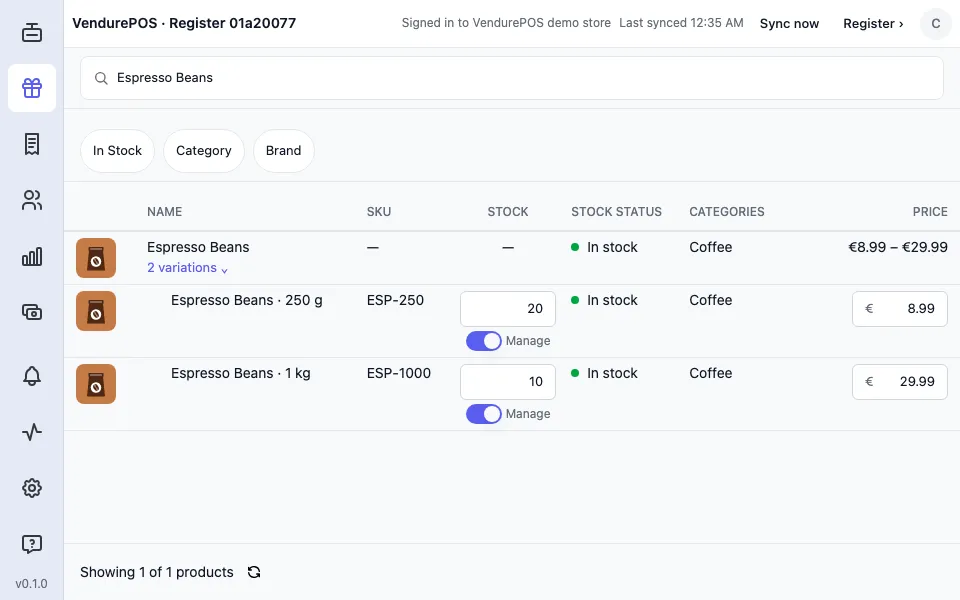
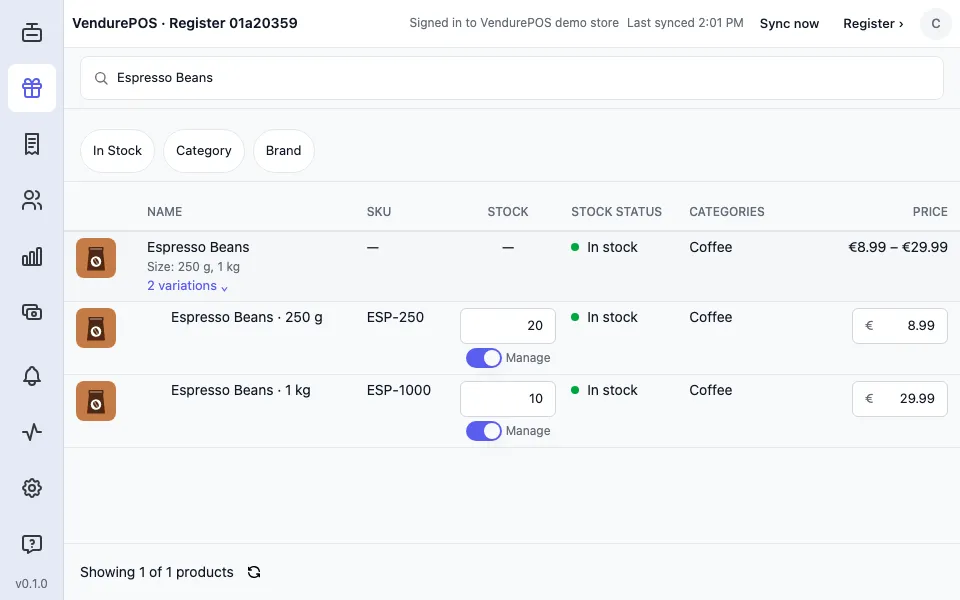
feat(pos): a grouped Products row shows its option summary under the name, as v2's products table (10.2m)
Each Vendure option group gets one muted line ("Size: S, M, L") between the
name and "N variations", kept to the values a live variant carries, in the
group's own order, from all the product's variants whatever the search or
filters leave. Plain and child rows show none. 08j retaken.

diff --git a/apps/pos/lib/product-rows.test.ts b/apps/pos/lib/product-rows.test.ts
@@ -16,7 +16,7 @@ describe('productRows', () => {
     expect(rows.map(row => row.id)).toEqual(['11', '21', '22', '31']);
     expect(rows[0]).toEqual({ id: '11', productId: '1', productName: 'Tally Fixture Mug', name: 'Tally Fixture Mug', sku: 'TALLY-MUG', price: expect.stringContaining('8.00'), stock: '50',
       imageUrl: null, stockStatus: 'in_stock', categories: '—', categoryIds: [], facetValueIds: [],
-      priceText: '8.00', stockText: '50', managed: true, stockTarget: null });
+      priceText: '8.00', stockText: '50', managed: true, stockTarget: null, optionSummary: [] });
     expect([rows[3].managed, rows[3].stockText]).toEqual([false, '']);
     expect(rows[1].name).toBe('Espresso Beans · 250 g');
     expect(rows[1].stock).toBe('20');
@@ -90,6 +90,40 @@ describe('productRows', () => {
   });
 });
 
+describe('productRows option summary (10.2m)', () => {
+  const group = (id: string, name: string, values: string[]) =>
+    ({ id, code: name.toLowerCase(), name, options: values.map(value => ({ id: `${id}-${value}`, code: value.toLowerCase(), name: value })) });
+  const options = (...pairs: [string, string][]) => pairs.map(([groupId, name]) => ({ id: `${groupId}-${name}`, code: name.toLowerCase(), name, groupId }));
+  const tee = { id: '4', name: 'Tally Tee', optionGroups: [group('size', 'Size', ['S', 'M', 'L']), group('colour', 'Colour', ['Black', 'White'])],
+    variants: [
+      { ...variant('41', 'TEE-S-BLK', 1999, 'Tally Tee S Black'), options: options(['size', 'S'], ['colour', 'Black']) },
+      { ...variant('42', 'TEE-M-BLK', 1999, 'Tally Tee M Black'), options: options(['size', 'M'], ['colour', 'Black']) },
+      { ...variant('43', 'TEE-S-WHT', 1999, 'Tally Tee S White'), options: options(['size', 'S'], ['colour', 'White']) },
+    ] };
+  const summary = [{ name: 'Size', values: ['S', 'M'] }, { name: 'Colour', values: ['Black', 'White'] }];
+
+  it("gives every row its product's groups in order, each kept to the values a live variant carries", () => {
+    const rows = productRows([tee], '', vendureProductTraits, 'EUR', 0);
+    expect(rows.map(row => row.optionSummary)).toEqual([summary, summary, summary]);
+  });
+
+  it('drops a group whose values no live variant carries', () => {
+    const withFit = { ...tee, optionGroups: [...tee.optionGroups, group('fit', 'Fit', ['Slim'])],
+      variants: [...tee.variants, { ...variant('44', 'TEE-SLIM', 1999, 'Tally Tee Slim'), enabled: false, options: options(['size', 'L'], ['fit', 'Slim']) }] };
+    expect(productRows([withFit], '', vendureProductTraits, 'EUR', 0)[0].optionSummary).toEqual(summary);
+  });
+
+  it('is empty for traits without getVariantOptions', () => {
+    const { getVariantOptions: _, ...traits } = vendureProductTraits;
+    expect(productRows([tee], '', traits, 'EUR', 0).map(row => row.optionSummary)).toEqual([[], [], []]);
+  });
+
+  it("keeps the whole product's summary on a row a search leaves alone", () => {
+    const rows = productRows([tee], 'TEE-M-BLK', vendureProductTraits, 'EUR', 0);
+    expect(rows.map(row => ({ id: row.id, optionSummary: row.optionSummary }))).toEqual([{ id: '42', optionSummary: summary }]);
+  });
+});
+
 describe('filterProductRows', () => {
   const base = productRows(products, '', vendureProductTraits, 'EUR', 0);
   const rows: ProductRow[] = [
@@ -127,7 +161,7 @@ describe('Products panel header sorting', () => {
   const row = (values: Partial<ProductRow> = {}): ProductRow => ({
     id: '1', productId: '1', productName: 'Mug', name: 'Mug', sku: '—', price: '—', stock: '—', imageUrl: null,
     stockStatus: 'unknown', categories: '—', categoryIds: [], facetValueIds: [], priceText: '', stockText: '',
-    managed: false, stockTarget: null, ...values,
+    managed: false, stockTarget: null, optionSummary: [], ...values,
   });
 
   it('extracts header values, leaving missing and unsortable values undefined', () => {
@@ -166,7 +200,7 @@ describe('groupProductRows', () => {
   const row = (id: string, productId: string, values: Partial<ProductRow> = {}): ProductRow => ({
     id, productId, productName: `Product ${productId}`, name: `Product ${productId} · ${id}`, sku: `SKU-${id}`, price: '—', stock: '5', imageUrl: null,
     stockStatus: 'in_stock', categories: 'Coffee', categoryIds: ['c'], facetValueIds: [], priceText: '', stockText: '5',
-    managed: true, stockTarget: null, ...values,
+    managed: true, stockTarget: null, optionSummary: [], ...values,
   });
   const ids = (rows: { id: string }[]) => rows.map(r => r.id);
 

diff --git a/apps/pos/lib/product-rows.ts b/apps/pos/lib/product-rows.ts
@@ -5,7 +5,17 @@ import { stockTarget, type StockTarget, type VendureVariantStock } from './produ
 /** One variant's row in the Products panel (CHECKLIST 10.2), with display and edit fields. */
 export interface ProductRow { id: string; productId: string; productName: string; name: string; sku: string; price: string; stock: string;
   imageUrl: string | null; stockStatus: StockStatus; categories: string; categoryIds: string[]; facetValueIds: string[];
-  priceText: string; stockText: string; managed: boolean; stockTarget: StockTarget | null }
+  priceText: string; stockText: string; managed: boolean; stockTarget: StockTarget | null; optionSummary: OptionSummary }
+/** v2's lines under a variable product's name (CHECKLIST 10.2m), e.g. "Size: S, M": each option group with the values its live variants carry. */
+export type OptionSummary = { name: string; values: string[] }[];
+
+/** Each option group in its own value order, kept to the values at least one live variant carries; a group left empty is dropped. */
+function optionSummary<Doc>(product: Doc, traits: ProductTraits<Doc>): OptionSummary {
+  const variants = traits.getVariants?.(product) ?? [];
+  return (traits.getVariantOptions?.(product) ?? [])
+    .map(group => ({ name: group.name, values: group.values.filter(value => variants.some(variant => variant.options?.[group.name] === value)) }))
+    .filter(group => group.values.length > 0);
+}
 /** The Products panel's header sort value for a row (v2's sortable headers): Name, SKU, Stock and Price; a missing value sorts last. */
 export function productRowSortValue(row: ProductRow, field: string): ProductSortValue {
   if (field === 'name') return row.name;
@@ -27,7 +37,10 @@ export function productRows<Doc>(products: Doc[], term: string, traits: ProductT
   const entries = catalogueEntries(searchProducts(products, term, traits), traits, { currency });
   const code = term.trim().toLowerCase();
   const exact = code ? entries.filter(({ variant }) => variant.sku?.toLowerCase() === code || variant.barcode?.toLowerCase() === code) : [];
+  // Once per product, from all its live variants (not only those the search or filters leave), as v2.
+  const summaries = new Map<Doc, OptionSummary>();
   return (exact.length ? exact : entries).map(({ product, variant }) => {
+    if (!summaries.has(product)) summaries.set(product, optionSummary(product, traits));
     const name = traits.getName(product);
     const option = variant.title?.startsWith(name) ? variant.title.slice(name.length).trim() : variant.title ?? '';
     const current = resolvePrice(variant.prices, currency)?.current;
@@ -42,6 +55,7 @@ export function productRows<Doc>(products: Doc[], term: string, traits: ProductT
       priceText: current ? moneyToMajor(current).toFixed(minorUnitDigits(current.currency)) : '',
       stockText: variant.stock.quantity == null ? '' : String(variant.stock.quantity), managed: variant.stock.quantity != null,
       stockTarget: stockTarget((product as { variants?: ({ id: string | number } & VendureVariantStock)[] }).variants?.find(v => String(v.id) === variant.id), outOfStockThreshold),
+      optionSummary: summaries.get(product)!,
     };
   });
 }

diff --git a/apps/pos/e2e/demo.spec.ts b/apps/pos/e2e/demo.spec.ts
@@ -1186,6 +1186,28 @@ test("the Products panel groups a multi-variant product under one 'N variations'
   await expect(panel.getByTestId('products-count')).toHaveText(`Showing ${Math.min(25, CATALOGUE.length)} of ${CATALOGUE.length} products`);
 });
 
+test("the Products panel shows a grouped product's option summary under its name, as v2's products table", async ({ page }) => {
+  await page.goto('/demo');
+  await page.getByTestId('demo-enter').click();
+  await expectSignedIn(page);
+  await openRegister(page);
+  await page.getByTestId('products-open').click();
+  const panel = page.getByTestId('products-panel');
+  // lib/demo/store.ts: a product's id is its CATALOGUE index + 1. One line per option group, in the group order.
+  const lines = (name: string) => panel.getByTestId(`product-options-${CATALOGUE.findIndex(p => p.name === name) + 1}`).locator(':scope > *');
+  await page.getByTestId('products-search').fill('Tally T-Shirt');
+  await expect(lines('Tally T-Shirt')).toHaveText(['Size: S, M, L', 'Colour: Black, White']);
+  await page.getByTestId('products-search').fill('Espresso Beans');
+  await expect(lines('Espresso Beans')).toHaveText(['Size: 250 g, 1 kg']);
+  // A plain row has no summary: a single-variant product, or a T-shirt variant an exact SKU search leaves alone (it still carries the product's summary).
+  for (const term of ['TALLY-MUG', 'TEE-S-BLK']) {
+    await page.getByTestId('products-search').fill(term);
+    await expect(panel.locator('[data-testid^="product-row-"]')).toHaveCount(1);
+    await expect(panel.locator('[data-testid^="product-row-group-"]')).toHaveCount(0);
+    await expect(panel.locator('[data-testid^="product-options-"]')).toHaveCount(0);
+  }
+});
+
 test("Store health shows Ready to sell, nothing waiting, the products on this device and the store's totals, and a scan closes it and adds", async ({ page }) => {
   await page.goto('/demo');
   await page.getByTestId('demo-enter').click();

diff --git a/apps/pos/lib/products-panel.tsx b/apps/pos/lib/products-panel.tsx
@@ -64,6 +64,10 @@ export function ProductsPanel({ products, traits, currency, session }: { product
         resizeMode="cover" className="h-10 w-10 rounded" /> : <View testID={`product-image-${row.id}`} className="h-10 w-10 rounded bg-muted" /> },
     { id: 'name', header: 'Name', flex: 2.5, sortValue: row => productRowSortValue(row, 'name'), render: row => row.group ? <VStack className="items-start gap-0.5">
       <Text>{row.name}</Text>
+      {/* v2's per-attribute lines (10.2m); v2's values are filter links, ours are plain text since they do nothing. */}
+      {row.optionSummary.length ? <VStack testID={`product-options-${row.group.productId}`}>
+        {row.optionSummary.map(option => <Text key={option.name} className="text-xs text-muted-foreground">{`${option.name}: ${option.values.join(', ')}`}</Text>)}
+      </VStack> : null}
       <Pressable testID={`product-variations-${row.group.productId}`} accessibilityRole="button" aria-expanded={row.group.open}
         accessibilityLabel={`Show variations of ${row.name}`} onPress={() => toggle(row.group!.productId)}>
         <Text className="text-sm text-primary">{`${row.group.count} variations ${row.group.open ? '⌄' : '›'}`}</Text>

diff --git a/docs/v2-parity/CHECKLIST.md b/docs/v2-parity/CHECKLIST.md
@@ -227,7 +227,7 @@ This file is the screen-by-screen, flow-by-flow list behind that goal. `AUDIT.md
 | ![](demo-pairs/13d-store-health-wcpos.webp) | ![](demo-pairs/13d-store-health-vendurepos.webp) |
 
 - [ ] **10.1 Customers screen:** list, search, edit. List and search done (specs B15a, B15b, B15b2): a Customers door between Orders and Reports opens the store's customers from Vendure's `customers` list, by surname, in v2's table (avatar, first and last name, email, default billing address, date created; a stacked row on a phone), 25 at a time with Show more and "Showing N of M customers", searched by name, email or phone. The walk-in customer is left out. A scan closes the panel and adds. Demo e2e "the Customers panel lists the store's customers by surname, searches them, and a scan closes it and adds". The door shows only to a role that can read customers (spec B15d, #246), and the billing address is two lines, as v2 (spec B15e, #247). Add and edit done (spec 10.1c, #356): an Add customer button and an Edit button on each row open v2's right-hand "Edit <name>" sheet with first and last name, email and phone. A save goes straight to Vendure (`createCustomer`, or `updateCustomer` with only the changed fields) and the list re-reads from the store, so a refusal such as a taken email shows the store's reason and leaves the row as the store has it. Offline, Save is blocked rather than queued. Add shows only to a role with Create customer and Edit only to one with Update customer; the plugin's till role holds Update customer and never Delete customer (#358; an existing role gains it at the next New POS till key). Demo e2e "the Customers panel adds and edits customers on the store; a refused save leaves the row as the store has it" and smoke on the dev store; shot 06d. Header sort done (10.1d, this PR): First name, Last name, Email and Date created sort from their headers, by the store (Vendure's `CustomerSortParameter`), so every page follows the sort. It opens on Last name ▲ as v2's "LAST NAME ^"; a press on the sorted column flips it, a press on another sorts that one ascending, and the list reloads from its first page. Search, Show more and the reload after a save keep the sort. The phone layout has no header and keeps Last name ▲. Demo e2e "the Customers panel sorts by its headers on the store, as v2's customers table"; shot 06e. Groups done (10.1e): the Edit sheet shows a read-only "Groups" row with the customer's Vendure customer group names in name order and "Set in Vendure", v2's read-only "Role … Set in WordPress" row on Vendure's own terms. It shows only when the customer has a group, never on New customer. The names come with the list's own read (`groups { id name }`), which a role holding exactly the plugin's till permissions (Read customer, no Read customer group) is answered, checked on the plugin's Postgres harness; no permission changes (Front desk ruling, 2026-11-21). Demo e2e "the customer sheet shows the customer's groups read-only, as v2's role row; a customer with no group shows none"; shot `demo-pairs/06f-customer-groups-vendurepos.webp`. *Notes (10.1f):* for an existing customer the sheet lists the customer's Vendure notes oldest first, each "Staff note: …" (Vendure keeps customer notes in the Admin API only), from one read of the customer's CUSTOMER_NOTE history entries, and Add note adds one with `addNoteToCustomer` (private), which the till's Update customer permission already allows; read and add only, no edit or delete. Notes are never on a receipt, the customer display or any print: the sheet carries the print-hide marker, and the receipt of a sale to the noted customer, live and reprinted, shows neither note (Front desk ruling, 2026-11-21). Demo e2e "the customer sheet lists a customer's staff notes and adds one; notes are never on a receipt or a print"; shot `demo-pairs/06g-customer-notes-vendurepos.webp`. Account done (10.1g): the Edit sheet shows a read-only "Account" row under Groups, in place of v2's read-only username row, on Vendure's own terms. Vendure customers have no username: the row reads "Registered · email verified", "Registered · not verified" (a customer the till or the Admin created, which Vendure leaves unverified) or "Guest" (no user), with "Set in Vendure". It comes from one read of `customer.user { id verified }`, which the till's Read customer answers (`Customer.user` carries no permission of its own). It shows only for an existing customer and only once the read answers; a failed read leaves the row out. Demo e2e "the customer sheet shows the customer's account read-only, as v2's username row: registered and verified, not verified, or a guest"; shot `demo-pairs/06h-customer-account-vendurepos.webp`, beside 06d. *Refresh (10.1k):* a ↻ refresh sits right after "Showing N of M customers", as v2's 06c. It reads the first page again with the current search and sort and is disabled while the list loads (demo e2e "the Customers refresh beside the count reads the list again"; shot `demo-pairs/06j-customers-refresh-vendurepos.webp` beside 06c). *Order history (10.1i):* for an existing customer the sheet lists the customer's 5 newest orders (Vendure's `customer.orders`, newest placed first), each reference, date, state and total, as v2's Order History in the customer sheet, or "No orders yet"; a refused or failed read shows the Orders panel's notice. A tap closes Customers and opens that order's sheet in Orders (Front desk ruling, 2026-11-21: 5 newest, no Show all). Demo e2e "the customer sheet lists the customer's five newest orders, and a tap opens the order's sheet"; shot `demo-pairs/06i-customer-orders-vendurepos.webp` beside v2's `06d-customer-detail-wcpos.webp`. *Walk-in (10.1j):* the plugin's walk-in customer (`walk-in@vendurepos.invalid`, the plugin's own constant, which a unit test reads) is never listed in Customers, the sale's customer picker or the Orders customer filter, and a sale on it reads Guest in the Orders table and on its sheet, as v2's guest orders. Real-store smoke "a walk-in sale reads Guest in Orders and on its sheet, and the walk-in is never listed or offered" (the demo has no walk-in customer), shot `demo-pairs/07k-orders-walk-in-guest-vendurepos.webp` beside v2's `07-orders-wcpos.webp`. *Left:* billing and shipping addresses, company, tax IDs and custom fields in the sheet, which wait on the shared TallyUI address editor (5.2, *shared*), and no delete. *Shared* then *app.*
-- [ ] **10.2 Products screen:** stock and price edited inline, with a manage-stock switch. *Plugin + app.* Done (#281): a Products door after POS opens a panel over the sale with TallyUI's `ProductTable` (Name, SKU, Price, Stock), one row per variant from the local catalogue, searched like the till, 25 at a time with Show more and "Showing N of M products"; a scan closes it and adds (demo e2e "the Products panel lists the catalogue's variants with SKU, price and stock, searches them, and a scan closes it and adds"). Done (#286): a single-variant product's price and stock are edited inline, with a Manage switch, for an administrator with `UpdateCatalog` or `UpdateProduct`. The price is offered only when the till's currency and tax mode are the channel's. A stock write re-reads the store and refuses when the saleable figure moved since the sync. The Manage switch shows the effective setting (a variant on INHERIT follows the store's Track inventory), and a flip writes TRUE or FALSE, so that variant stops following the store's setting. Done (#342 and this PR): a stock write is one compare-and-set call to the plugin's `POST /tally/v1/variants/:id/stock`, under the sale's stock lock, so a sale between the read and the write is refused, never overwritten; a plugin without the route answers 404 with no code, and the till falls back to the re-read and write (the demo takes that path). Done (10.2e, this PR): each variant row of a multi-variant product edits its own price, stock and Manage switch the same way, through the same per-variant writes (demo e2e "the Products panel edits one variant of a multi-variant product, and its sibling keeps its price and stock", shot `demo-pairs/08e-products-variant-edit-vendurepos.webp`). Done (10.2f, this PR): v2's other display columns. The columns are now Image (the product's featured asset, no head label), Name, SKU, Stock, Stock status (a coloured dot with In stock, Out of stock or On backorder, from the variant's own stock level) and Categories (the product's Vendure collections), then Price. Demo e2e "the Products panel shows each variant's image, stock status and categories, as v2's products table"; shot `demo-pairs/08-products-vendurepos.webp` refreshed. Regular and Sale price stay out (2.5 ruling). Done (10.2g, this PR): v2's filter pills In Stock and Category above the table (TallyUI's `ProductFilterBar`). In Stock starts off, as on v2's Products screen, and hides out-of-stock rows; Category opens the store's collections and lists only the picked one, shown as a chip that clears it. Featured, On sale, Tags and Brands are left out (no Vendure field). Demo e2e "the Products panel filters by In Stock and by category, as v2's filter pills", shot `demo-pairs/08f-products-filters-vendurepos.webp`. Done (10.2h, this PR): v2's sortable headers (its "PRODUCT ^"). Name, SKU, Stock and Price sort through TallyUI's `ProductTable` sort and `sortProducts`; a press goes ascending ▲, descending ▼, then back to the store's order. The panel sorts the whole filtered list before its 25-row page, so a product from page two can come first (Name ▼ brings the last row, Weekly Planner, to the top); a missing SKU, stock or price sorts last. Image, Stock status and Categories stay unsortable. Demo e2e "the Products panel sorts by its headers, across every page, as v2's products table", shot `demo-pairs/08g-products-header-sort-vendurepos.webp`. Done (10.2i, this PR): Vendure's facets as v2's Tags and Brands pills. One pill per product facet, under the facet's own name, beside In Stock and Category; it opens a picker of the facet's values, a chosen value filters the table and the pill reads "Brand: Tally", and a tap on it clears it. Private facets (Vendure isPrivate) are never shown: one Admin API read of the public facets per session decides which pills appear, and none show until it answers. The `category` facet that mirrors collections is hidden, since the Category pill lists them. Many facets scroll sideways instead of wrapping the row (Front desk ruling, 2026-11-21). Demo e2e "the Products panel filters by each public facet, one pill per facet, as v2's Tags and Brands pills" (the demo's Supplier facet is private and has no pill), shot `demo-pairs/08h-products-facets-vendurepos.webp`; 08f retaken, as the chosen-category chip now follows Category. *Refresh (10.2k):* a ↻ refresh sits right after "Showing N of M products", as v2's 08. It pulls the catalogue again (the same pull as Sync now; the pull runs in the background, so the button has no busy state) (demo e2e "the Products refresh beside the count pulls the catalogue again"; shot `demo-pairs/08i-products-refresh-vendurepos.webp` beside 08). Done (10.2j, this PR): v2's grouped "N variations" row. After search, filters and the header sort, a product with two or more rows left is one row at its first row's place: its image, name and "N variations ›" under it, a price range ("€8.99 – €29.99"), a dash for SKU and stock, and the first stock status any of its variants has (in stock, then on backorder, then out of stock). Pressing "N variations" opens its variant rows beneath it, each with 10.2e's own price, stock and Manage edits. A product with one row left (an exact SKU search, say) stays a plain variant row. The page and "Showing N of M products" count products, never an open group's variants. The grouping is the app's, not TallyUI 4.1.0's `renderExpanded`: that opens only from the thumbnail and draws a free block under the row, so the 10.2e edit cells would not line up with the table's columns, and v2's toggle sits under the name. Demo e2e "the Products panel groups a multi-variant product under one 'N variations' row that opens to its variants, as v2's products table", shot `demo-pairs/08j-products-variations-vendurepos.webp` beside 08. Done (10.2l, this PR): the Products shots 08, 08e to 08j are retaken in the grouped layout, and a group's price range stays on one line at the demo-pairs size (the Price column takes flex 1.5 from Name's 3 → 2.5; the 10.2j demo test checks the range's box is under 1.5 line heights). That is our call, not v2's: v2's 08 wraps "$25.00 -" over "$57.00". *Left:* v2's attribute summary under a group's name ("Size: XS, S, M", "Color: …") and its row chevron to the product's detail (*app*; Vendure's option groups).
+- [ ] **10.2 Products screen:** stock and price edited inline, with a manage-stock switch. *Plugin + app.* Done (#281): a Products door after POS opens a panel over the sale with TallyUI's `ProductTable` (Name, SKU, Price, Stock), one row per variant from the local catalogue, searched like the till, 25 at a time with Show more and "Showing N of M products"; a scan closes it and adds (demo e2e "the Products panel lists the catalogue's variants with SKU, price and stock, searches them, and a scan closes it and adds"). Done (#286): a single-variant product's price and stock are edited inline, with a Manage switch, for an administrator with `UpdateCatalog` or `UpdateProduct`. The price is offered only when the till's currency and tax mode are the channel's. A stock write re-reads the store and refuses when the saleable figure moved since the sync. The Manage switch shows the effective setting (a variant on INHERIT follows the store's Track inventory), and a flip writes TRUE or FALSE, so that variant stops following the store's setting. Done (#342 and this PR): a stock write is one compare-and-set call to the plugin's `POST /tally/v1/variants/:id/stock`, under the sale's stock lock, so a sale between the read and the write is refused, never overwritten; a plugin without the route answers 404 with no code, and the till falls back to the re-read and write (the demo takes that path). Done (10.2e, this PR): each variant row of a multi-variant product edits its own price, stock and Manage switch the same way, through the same per-variant writes (demo e2e "the Products panel edits one variant of a multi-variant product, and its sibling keeps its price and stock", shot `demo-pairs/08e-products-variant-edit-vendurepos.webp`). Done (10.2f, this PR): v2's other display columns. The columns are now Image (the product's featured asset, no head label), Name, SKU, Stock, Stock status (a coloured dot with In stock, Out of stock or On backorder, from the variant's own stock level) and Categories (the product's Vendure collections), then Price. Demo e2e "the Products panel shows each variant's image, stock status and categories, as v2's products table"; shot `demo-pairs/08-products-vendurepos.webp` refreshed. Regular and Sale price stay out (2.5 ruling). Done (10.2g, this PR): v2's filter pills In Stock and Category above the table (TallyUI's `ProductFilterBar`). In Stock starts off, as on v2's Products screen, and hides out-of-stock rows; Category opens the store's collections and lists only the picked one, shown as a chip that clears it. Featured, On sale, Tags and Brands are left out (no Vendure field). Demo e2e "the Products panel filters by In Stock and by category, as v2's filter pills", shot `demo-pairs/08f-products-filters-vendurepos.webp`. Done (10.2h, this PR): v2's sortable headers (its "PRODUCT ^"). Name, SKU, Stock and Price sort through TallyUI's `ProductTable` sort and `sortProducts`; a press goes ascending ▲, descending ▼, then back to the store's order. The panel sorts the whole filtered list before its 25-row page, so a product from page two can come first (Name ▼ brings the last row, Weekly Planner, to the top); a missing SKU, stock or price sorts last. Image, Stock status and Categories stay unsortable. Demo e2e "the Products panel sorts by its headers, across every page, as v2's products table", shot `demo-pairs/08g-products-header-sort-vendurepos.webp`. Done (10.2i, this PR): Vendure's facets as v2's Tags and Brands pills. One pill per product facet, under the facet's own name, beside In Stock and Category; it opens a picker of the facet's values, a chosen value filters the table and the pill reads "Brand: Tally", and a tap on it clears it. Private facets (Vendure isPrivate) are never shown: one Admin API read of the public facets per session decides which pills appear, and none show until it answers. The `category` facet that mirrors collections is hidden, since the Category pill lists them. Many facets scroll sideways instead of wrapping the row (Front desk ruling, 2026-11-21). Demo e2e "the Products panel filters by each public facet, one pill per facet, as v2's Tags and Brands pills" (the demo's Supplier facet is private and has no pill), shot `demo-pairs/08h-products-facets-vendurepos.webp`; 08f retaken, as the chosen-category chip now follows Category. *Refresh (10.2k):* a ↻ refresh sits right after "Showing N of M products", as v2's 08. It pulls the catalogue again (the same pull as Sync now; the pull runs in the background, so the button has no busy state) (demo e2e "the Products refresh beside the count pulls the catalogue again"; shot `demo-pairs/08i-products-refresh-vendurepos.webp` beside 08). Done (10.2j, this PR): v2's grouped "N variations" row. After search, filters and the header sort, a product with two or more rows left is one row at its first row's place: its image, name and "N variations ›" under it, a price range ("€8.99 – €29.99"), a dash for SKU and stock, and the first stock status any of its variants has (in stock, then on backorder, then out of stock). Pressing "N variations" opens its variant rows beneath it, each with 10.2e's own price, stock and Manage edits. A product with one row left (an exact SKU search, say) stays a plain variant row. The page and "Showing N of M products" count products, never an open group's variants. The grouping is the app's, not TallyUI 4.1.0's `renderExpanded`: that opens only from the thumbnail and draws a free block under the row, so the 10.2e edit cells would not line up with the table's columns, and v2's toggle sits under the name. Demo e2e "the Products panel groups a multi-variant product under one 'N variations' row that opens to its variants, as v2's products table", shot `demo-pairs/08j-products-variations-vendurepos.webp` beside 08. Done (10.2l, this PR): the Products shots 08, 08e to 08j are retaken in the grouped layout, and a group's price range stays on one line at the demo-pairs size (the Price column takes flex 1.5 from Name's 3 → 2.5; the 10.2j demo test checks the range's box is under 1.5 line heights). That is our call, not v2's: v2's 08 wraps "$25.00 -" over "$57.00". Done (10.2m, this PR): v2's attribute summary under a group's name, one muted line per Vendure option group ("Size: S, M, L", "Colour: Black, White"), between the name and "N variations". Each group keeps its own value order, shows only the values a live variant carries, and is dropped when none does; the summary comes from all the product's live variants, not only those left after search or filters, as v2. v2's values are links that filter; ours are plain text, since they do nothing. A plain row shows none. Demo e2e "the Products panel shows a grouped product's option summary under its name, as v2's products table", shot `demo-pairs/08j-products-variations-vendurepos.webp` retaken. *Left:* its row chevron to the product's detail (*app*).
 - [x] **10.3 Store health:** "Ready to sell", changes waiting to send, records that need attention (Fix / Retry), per-collection coverage. VendurePOS has Settings › Sync log and "Last synced / Sync now". *App.* Done (#273, #280): a Store health door at the rail's foot opens a panel with "Ready to sell" (or the first reason it is not), records on this device, changes waiting to send, and a table of on-device counts for Products, Orders, Refunds, Parked sales and Closures (demo e2e "Store health shows Ready to sell, nothing waiting and the products on this device, and a scan closes it and adds"). Records that need attention list as reference · total — reason, with Open (into the Orders panel) and, where the Orders panel offers it, Retry (unit tests only: the demo has no refused sale). Done (#290): an On server column and coverage against the store's own totals. Done (P10.3e): v2's View log › once per attention callout, opening Settings › Sync log, where the refusal is logged with the order's id (smoke e2e "a rejected sale needs attention…"; shot `demo-pairs/13f-store-health-view-log-vendurepos.webp`). Done (P10.3d, desk ruling 2026-11-18): v2's Fix record. The record's Open now reads Fix record, and the refused sale's sheet shows the store's reason with a primary Retry that resends it and returns to the list (smoke e2e "Store health's Fix record…"; shot `demo-pairs/13g-store-health-fix-record-vendurepos.webp`). Editing a refused sale in the cart is not built (backlog, one-way). Done (10.3b, #324): "Check everything now" at the panel's foot, and the Products row's "Clear & re-download" (a confirm, then the catalogue database is removed and downloads again; sales, refunds, parked carts and closures are kept), as v2's Database tab (demo e2e "Store health checks everything now, and Clear & re-download empties and refills the products and the till still sells"). Clear & re-download is off until the store answers, and asks the store again on Yes; a till that cannot reach it, or a Cancel during that check, keeps its catalogue (unit tests). Done (10.3f): v2's drawer badge. The rail's Store health item counts the errors the sync log has kept since it was last open, warnings never; opening Settings › Sync log clears it, and the count starts at 0 when the app opens (smoke e2e "a store error badges Store health…"; shot `demo-pairs/13h-store-health-error-badge-vendurepos.webp`). Done (10.3g): v2's storage used and "N stuck". On the web the header shows the browser's storage estimate for this origin beside the record count (native shows none: there is no equivalent call), and the Orders row carries a red "N stuck" chip counting the records that need attention (demo e2e "Store health shows Ready to sell…", smoke e2e "a rejected sale needs attention…"; shot `demo-pairs/13i-store-health-stuck-vendurepos.webp` beside v2's 13d, and 13f now shows the storage stat). Done (10.3i, #355, desk ruling 2026-11-20, recorded as a chosen addition over v2): a Sync cadence card under Store health offers Standard (the unchanged default: a re-pull every 60 s with the adapter's page of up to 100), TallyUI's Eco, Balanced and Realtime presets, and Custom clamped to TallyUI's limits (5 s to 5 min, 10 to 100 records). The choice is kept on this device; a new interval applies at once, a new page size at the next start (unit tests; demo e2e "Store health › Sync cadence keeps this till's choice…"; shot `demo-pairs/13j-store-health-sync-cadence-vendurepos.webp`, VendurePOS only). Done (10.3k, this PR): Settings › Sync log's filters are v2's Logs presets, All, Actions and Errors, through TallyUI 3.20.0's `presetFilters` / `matchesPresetFilters` (Errors is errors only; the old "Warnings and errors" is gone, as in v2). The log keeps each entry's actor (id and name only), so Actions lists what a person did (register opened or closed, pay in or out, X-report), and an action shows who did it on screen; the Copy/Share text is unchanged and never carries the actor (unit tests; demo e2e "the sync log's Actions preset shows what the cashier did, and Errors hides it"; shot `demo-pairs/13k-store-health-log-presets-vendurepos.webp`, VendurePOS only). *Variants (10.3n):* a "↳ Variants" row under Products, as v2's 13d "↳ Variations": every variant on this device beside the store's `productVariants` total, with coverage. Both sides count every variant, the "POS custom item" included, the same rule as Products (unit tests; demo e2e "Store health shows Ready to sell…"; real-store smoke "Store health's Variants and Products cover the whole dev store" at 100%; shot `demo-pairs/13l-store-health-variants-vendurepos.webp` beside 13d). Done (10.3m, this PR): v2's per-collection Size column, through TallyUI 4.1.0's `measureCollectionBytes` (the logical JSON size of every live document, shown as "≈ 12 KB"; "…" while measuring, "—" when it cannot be measured). It is measured only while the panel is open: when it opens, after Check everything now, and again when the catalogue's first pull lands after Clear & re-download. The Variants row reads "in Products", since a variant lives inside its product's document (unit tests; demo e2e "Store health shows Ready to sell…" and "…Clear & re-download empties and refills…"; shots `demo-pairs/13l-store-health-variants-vendurepos.webp` retaken and `demo-pairs/13m-store-health-size-vendurepos.webp` beside v2's 13d; the earlier 13f–13i shots predate the column).
 - N/A **10.4 Coupons screen.** Vendure promotions are managed in the Vendure admin (`AUDIT.md` §19). A coupon-code field in the cart is a separate row once one is found in WCPOS's cart.
 
